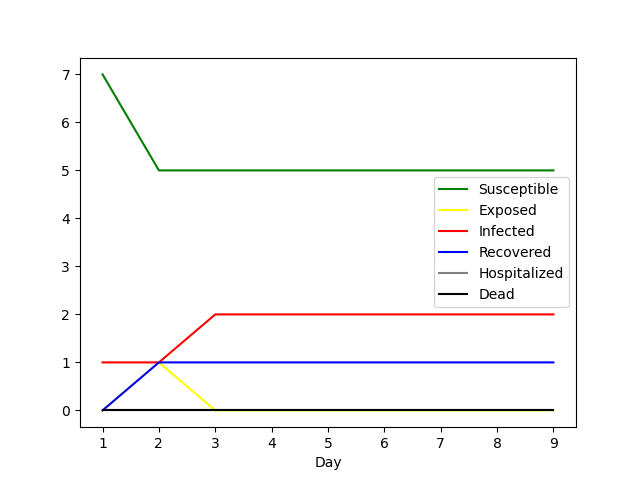
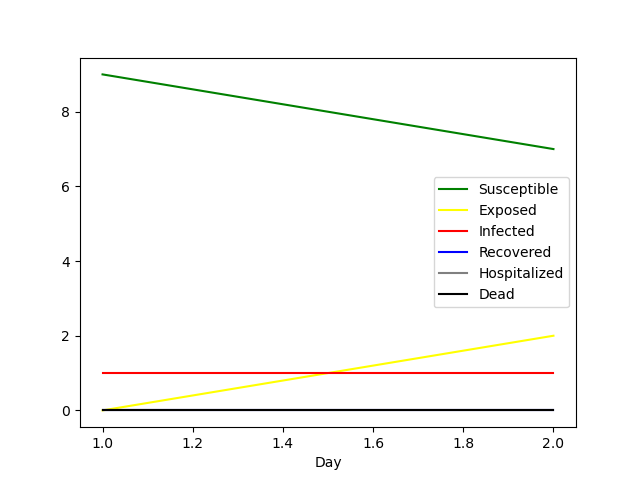
I have added a second datacollector to get the recorded data. Implemented in the Visual version with a chart below the other one, and there is also a csv and png files created for the run file option

diff --git a/examples/Aran Covid/BCNCovid2020SEIRHD.py b/examples/Aran Covid/BCNCovid2020SEIRHD.py
@@ -45,23 +45,32 @@ class BCNCovid2020(Model):
         self.schedule = RandomActivation(self)
         self.initial_outbreak_size = 100
         self.DateTime = datetime(year=2021, month=1, day=1, hour=0, minute=0, second=0)
-        # self.timetable = np.arange(0, 24, 0.25) # divide the day
-        # self.step_no = 0
+
         self.virus = VirusCovid()
         self.peopleTested = {}
         self.peopleToTest = {}
 
-        # variables for data collector
+        # variables for model data collector
         self.collector_counts = None
         self.reset_counts()
         self.collector_counts["SUSC"] = N
 
         self.datacollector = DataCollector(
             {"SUSC": get_susceptible_count, "EXP": get_exposed_count, "INF": get_infected_count,
-             "REC": get_recovered_count,
-             "HOSP": get_hosp_count, "DEAD": get_dead_count, },
-            tables={"DC_Table": {"Day": [], "Susceptible": [], "Exposed": [], "Infected": [], "Recovered": [],
+             "REC": get_recovered_count, "HOSP": get_hosp_count, "DEAD": get_dead_count, },
+            tables={"Model_DC_Table": {"Day": [], "Susceptible": [], "Exposed": [], "Infected": [], "Recovered": [],
                                  "Hospitalized": [], "Dead": []}}
+        )
+
+        # variables for hospital data collector
+        self.hosp_collector_counts = None
+        self.reset_hosp_counts()
+        self.hosp_collector_counts["H-SUSC"] = N
+        self.hosp_collector = DataCollector(
+            {"H-SUSC": get_h_susceptible_count, "H-INF": get_h_infected_count,
+             "H-REC": get_h_recovered_count, "H-HOSP": get_h_hospitalized_count, "H-DEAD": get_h_dead_count, },
+            tables={"Hosp_DC_Table": {"Day": [], "Hosp-Susceptible": [], "Hosp-Infected": [], "Hosp-Recovered": [],
+                                 "Hosp-Hospitalized": [], "Hosp-Dead": []}}
         )
 
         _log.info("Loading shapefiles")
@@ -83,6 +92,7 @@ class BCNCovid2020(Model):
         self.createSocialNetwork(N)
 
         self.datacollector.collect(self)
+        self.hosp_collector.collect(self)
 
     def createBasicAgents(self, N):
         """ Create and place the Human agents into the map"""
@@ -194,15 +204,24 @@ class BCNCovid2020(Model):
             self.grid.update_shape(agent, loc)
 
     def reset_counts(self):
-        """ Sets to 0 the counts for the datacollector """
+        """ Sets to 0 the counts for the model datacollector """
         self.collector_counts = {"SUSC": 0, "EXP": 0, "INF": 0, "REC": 0, "HOSP": 0, "DEAD": 0, }
+
+    def reset_hosp_counts(self):
+        """ Sets to 0 the counts for the hospital datacollector """
+        self.hosp_collector_counts = {"H-SUSC": 0, "H-INF": 0, "H-REC": 0, "H-HOSP": 0, "H-DEAD": 0, }
 
     def plot_results(self, title=''):
         """Plot cases per country"""
-        X = self.datacollector.get_table_dataframe("DC_Table")
+        X = self.datacollector.get_table_dataframe("Model_DC_Table")
         X.to_csv('sir_stats.csv', index=False)  # get the csv
         colors = ["Green", "Yellow", "Red", "Blue", "Gray", "Black"]
         X.set_index('Day').plot.line(color=colors).get_figure().savefig('sir_stats.png')  # plot the stats
+
+        Y = self.hosp_collector.get_table_dataframe("Hosp_DC_Table")
+        Y.to_csv('hosp_sir_stats.csv', index=False)  # get the csv
+        colors = ["Green", "Red", "Blue", "Gray", "Black"]
+        Y.set_index('Day').plot.line(color=colors).get_figure().savefig('hosp_sir_stats.png')  # plot the stats
 
     def update_DC_table(self):
         """ Collects all statistics for the DC_Table """
@@ -210,7 +229,12 @@ class BCNCovid2020(Model):
                     'Exposed': get_exposed_count(self),
                     'Infected': get_infected_count(self), 'Recovered': get_recovered_count(self),
                     'Hospitalized': get_hosp_count(self), 'Dead': get_dead_count(self)}
-        self.datacollector.add_table_row("DC_Table", next_row, ignore_missing=True)
+        self.datacollector.add_table_row("Model_DC_Table", next_row, ignore_missing=True)
+
+        next_row2 = {'Day': self.DateTime.day, 'Hosp-Susceptible': get_h_susceptible_count(self),
+                    'Hosp-Infected': get_h_infected_count(self), 'Hosp-Recovered': get_h_recovered_count(self),
+                    'Hosp-Hospitalized': get_hosp_count(self), 'Hosp-Dead': get_h_dead_count(self)}
+        self.hosp_collector.add_table_row("Hosp_DC_Table", next_row2, ignore_missing=True)
 
     def step(self):
         """ Runs one step on the model. Resets the count, collects the data, and updated the DC_Table. """
@@ -221,8 +245,11 @@ class BCNCovid2020(Model):
 
         # next day
         self.reset_counts()
+
         self.schedule.step()
+
         self.datacollector.collect(self)
+        self.hosp_collector.collect(self)
         if current_step.day != self.DateTime.day:
             self.update_DC_table()
             self.clean_contact_list(current_step, Adays=2,
@@ -275,7 +302,9 @@ class BCNCovid2020(Model):
             self.step()
 
 
-# Functions needed for datacollector
+""" Functions for the data collectors """
+
+
 def get_susceptible_count(model):
     """ Returns the Susceptible human agents in the model """
     return model.collector_counts["SUSC"]
@@ -304,3 +333,28 @@ def get_hosp_count(model):
 def get_dead_count(model):
     """ Returns the Dead human agents in the model """
     return model.collector_counts["DEAD"]
+
+
+def get_h_susceptible_count(model):
+    """ Returns the Susceptible human agents in the model recorded by Hospital """
+    return model.hosp_collector_counts["H-SUSC"]
+
+
+def get_h_infected_count(model):
+    """ Returns the Infected human agents in the model recorded by Hospital"""
+    return model.hosp_collector_counts["H-INF"]
+
+
+def get_h_recovered_count(model):
+    """ Returns the Recovered human agents in the model recorded by Hospitals """
+    return model.hosp_collector_counts["H-REC"]
+
+
+def get_h_hospitalized_count(model):
+    """ Returns the Hospitalized human agents in the model recorded by Hospitals """
+    return model.hosp_collector_counts["H-HOSP"]
+
+
+def get_h_dead_count(model):
+    """ Returns the Dead human agents in the model recorded by Hospitals """
+    return model.hosp_collector_counts["H-DEAD"]

diff --git a/examples/Aran Covid/Human_Class.py b/examples/Aran Covid/Human_Class.py
@@ -199,10 +199,14 @@ class BasicHuman(Agent):
             # Agent dies
             if alive == 0:
                 self.adjust_init_stats("HOSP", "DEAD", State.DEAD)
+                self.model.hosp_collector_counts['H-HOSP'] -= 1
+                self.model.hosp_collector_counts['H-DEAD'] += 1
                 # self.model.schedule.remove(self)
             # Agent still alive, if have passed more days than hospitalized_time, change state to Recovered
             if alive != 0 and t.days >= self.hospitalized_time:
                 self.adjust_init_stats("HOSP", "REC", State.REC)
+                self.model.hosp_collector_counts['H-HOSP'] -= 1
+                self.model.hosp_collector_counts['H-REC'] += 1
 
                 im_time = self.model.get_immune_time()
                 self.immune_time = im_time
@@ -221,9 +225,6 @@ class BasicHuman(Agent):
             for other in cellmates:
                 if isinstance(other, BasicHuman) and other != self:
                     pTrans = self.model.virus.pTrans(self.mask, other.mask)
-                    print(f"Agent {self.unique_id} wears {self.mask} and agent {other.unique_id} wears {other.mask}, "
-                          f"thus the prob is {pTrans} ")
-
                     trans = np.random.choice([0, 1], p=[pTrans, 1 - pTrans])
                     if trans == 0 and (
                             self.state is State.INF or self.state is State.EXP) and other.state is State.SUSC:

diff --git a/examples/Aran Covid/Hospital_class.py b/examples/Aran Covid/Hospital_class.py
@@ -2,6 +2,7 @@ from mesa import Agent
 import Covid_class
 from Covid_class import State, Mask
 import numpy as np
+import random
 from datetime import datetime, timedelta
 
 
@@ -51,6 +52,8 @@ class Hospital(Agent):
         true_pos = np.random.choice([True, False], p=[pTest, 1 - pTest])
         if true_pos:  # test knows true state
             if agentStatus == State.EXP or agentStatus == State.INF:
+                self.model.hosp_collector_counts['H-SUSC'] -= 1
+                self.model.hosp_collector_counts['H-INF']  += 1
                 agentcontacts = agent.contacts
                 print(f"Resulta que es positivo, da sus contactos {agentcontacts}")
                 # save agent contacts for future tests
@@ -109,7 +112,7 @@ class Workplace(Agent):
         self.place = (self.random.randrange(self.model.grid.width), self.random.randrange(self.model.grid.height))
         self.total_capacity = 0
         self.workers = set()
-        self.mask = Mask.RandomMask()
+        self.mask = random.choice([Mask.HYGIENIC, Mask.FFP2])
 
     def __str__(self):
         return "Workplace at " + str(self.place) + " with mask " + str(self.mask)

diff --git a/examples/Aran Covid/BCNCovid2020_Viz_SEIRHD.py b/examples/Aran Covid/BCNCovid2020_Viz_SEIRHD.py
@@ -85,13 +85,23 @@ infected_chart = ChartModule(
         {"Label": "REC", "Color": "Blue"},
         {"Label": "HOSP", "Color": "Gray"},
         {"Label": "DEAD", "Color": "Black"},
-    ]
+    ], data_collector_name="datacollector"
+)
+
+hospital_chart = ChartModule(
+    [
+        {"Label": "H-SUSC", "Color": "Green"},
+        {"Label": "H-INF", "Color": "Red"},
+        {"Label": "H-REC", "Color": "Blue"},
+        {"Label": "H-HOSP", "Color": "Gray"},
+        {"Label": "H-DEAD", "Color": "Black"},
+    ], data_collector_name="hosp_collector"
 )
 
 show_time = TimeElement()
 
 server = ModularServer(BCNCovid2020,
-                       [show_time, grid, infected_chart],
+                       [show_time, grid, infected_chart, hospital_chart],
                        "Covid Model", model_params)
 
 server.port = 8521  # The default

diff --git a/examples/Aran Covid/Covid_class.py b/examples/Aran Covid/Covid_class.py
@@ -7,7 +7,7 @@ class VirusCovid(object):
         self.r0 = 2.5
 
         # from EXP to INF
-        self.incubation_days = 2
+        self.incubation_days = 3
         self.incubation_days_sd = 1
 
         # from INF to REC - HOSP
@@ -19,7 +19,7 @@ class VirusCovid(object):
         self.immune_days_sd = 1  # 0
 
         # from HOSP to REC - DEATH
-        self.severe_days = 2  # 0
+        self.severe_days = 3  # 0
         self.severe_days_sd = 1  # 0
 
         self.ptrans = 0.7
